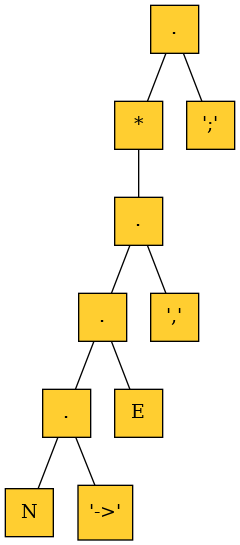
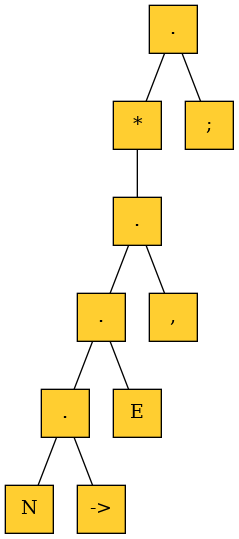
séance 3

Changed region(s): [[0.0, 0.5046, 0.7029, 1.0], [0.4686, 0.1484, 0.8494, 0.6531], [0.6151, 0.0, 0.9958, 0.2968]]

diff --git a/constantes.py b/constantes.py
@@ -1,8 +1,8 @@
 from tree_gen import *
 
-A1 = gen_conc(gen_star(gen_conc(gen_conc(gen_conc(gen_atom('N',0,AtomType.NonTerminal),gen_atom("'->'",0,AtomType.Terminal)),gen_atom('E',0,AtomType.NonTerminal)),gen_atom("','",0,AtomType.Terminal))),gen_atom("';'",0,AtomType.Terminal))
-A2 = gen_atom("'IDnter'",0,AtomType.Terminal)
-A3 = gen_conc(gen_atom('T',0,AtomType.NonTerminal),gen_star(gen_conc(gen_atom("'.'",0,AtomType.Terminal),gen_atom('T',0,AtomType.NonTerminal))))
-A4 = gen_conc(gen_atom('T',0,AtomType.NonTerminal),gen_star(gen_conc(gen_atom("'+'",0,AtomType.Terminal),gen_atom('T',0,AtomType.NonTerminal))))
-A5 = gen_union(gen_union(gen_union(gen_union(gen_atom("'IDnter'",0,AtomType.Terminal),gen_atom("'Elter'",0,AtomType.Terminal)),gen_conc(gen_atom("'('",0,AtomType.Terminal),gen_conc(gen_atom('E',0,AtomType.NonTerminal),gen_atom("')'",0,AtomType.Terminal)))),gen_conc(gen_atom("'['",0,AtomType.Terminal),gen_conc(gen_atom('E',0,AtomType.NonTerminal),gen_atom("']'",0,AtomType.Terminal)))),gen_conc(gen_atom("'(/'",0,AtomType.Terminal),gen_conc(gen_atom('E',0,AtomType.NonTerminal),gen_atom("'/)'",0,AtomType.Terminal))))
+A1 = gen_conc(gen_star(gen_conc(gen_conc(gen_conc(gen_atom('N',0,AtomType.NonTerminal),gen_atom('->',0,AtomType.Terminal)),gen_atom('E',0,AtomType.NonTerminal)),gen_atom(',',0,AtomType.Terminal))),gen_atom(';',0,AtomType.Terminal))
+A2 = gen_atom('IDnter',0,AtomType.Terminal)
+A3 = gen_conc(gen_atom('T',0,AtomType.NonTerminal),gen_star(gen_conc(gen_atom('.',0,AtomType.Terminal),gen_atom('T',0,AtomType.NonTerminal))))
+A4 = gen_conc(gen_atom('F',0,AtomType.NonTerminal),gen_star(gen_conc(gen_atom('+',0,AtomType.Terminal),gen_atom('F',0,AtomType.NonTerminal))))
+A5 = gen_union(gen_union(gen_union(gen_union(gen_atom('IDnter',0,AtomType.Terminal),gen_atom('Elter',0,AtomType.Terminal)),gen_conc(gen_atom('(',0,AtomType.Terminal),gen_conc(gen_atom('E',0,AtomType.NonTerminal),gen_atom(')',0,AtomType.Terminal)))),gen_conc(gen_atom('[',0,AtomType.Terminal),gen_conc(gen_atom('E',0,AtomType.NonTerminal),gen_atom(']',0,AtomType.Terminal)))),gen_conc(gen_atom('(/',0,AtomType.Terminal),gen_conc(gen_atom('E',0,AtomType.NonTerminal),gen_atom('/)',0,AtomType.Terminal))))
 A = [A1,A2,A3,A4,A5]

diff --git a/analyse_modules.py b/analyse_modules.py
@@ -1,0 +1,68 @@
+from constantes import A
+from tree_gen import *
+
+
+def isArrow(grammar : str, local_index : int) -> bool:
+    if grammar[local_index:local_index+2] == '->':
+        return True
+    else:
+        return False
+    
+
+index = 0
+    
+def analyse(node : Node, grammar)-> bool :
+    global index
+    if node.classe == Classe.Conc :
+        if analyse(node.left, grammar) :
+            return analyse(node.right, grammar)
+        else:
+            return False
+    elif node.classe == Classe.Union :
+        if analyse(node.left, grammar) :
+            return True
+        else:
+            return analyse(node.right, grammar)
+    elif node.classe == Classe.Star :
+        while analyse(node.left, grammar) :
+            pass
+    elif node.classe == Classe.Un :
+        if analyse(node.left, grammar) :
+            pass
+    elif node.classe == Classe.Atom :
+        if node.AType == AtomType.Terminal :
+            if node.value == '->'  :
+                index += 2
+                return isArrow(grammar, index-2)
+            elif node.value == 'IDnter' :
+                index += 1
+                return grammar[index-1] in 'SNTEF'
+            elif node.value == 'Elter' :
+                if grammar[index] == "'" :
+                    while grammar[index] != "'" :
+                        index += 1
+                    return True
+            elif node.value == grammar[index] :
+                index += 1
+                return True
+            else :
+                return False
+        else : #NonTerminal
+            if node.value == 'S':
+                next_node = A[0]
+            elif node.value == 'N':
+                next_node = A[1]
+            elif node.value == 'T':
+                next_node = A[2]
+            elif node.value == 'E':
+                next_node = A[3]
+            elif node.value == 'F':
+                next_node = A[4]
+            else:
+                return False
+            return analyse(next_node, grammar)
+    
+                    
+                
+            
+        

diff --git a/graphic_modules.py b/graphic_modules.py
@@ -1,4 +1,4 @@
-from tree_gen import Node, AtomType
+from tree_gen import Node, AtomType, Classe
 # Utilisé pour le dessin de l'arbre
 from dsplot import tree
 
@@ -17,19 +17,25 @@ def tree_print_aux(tree : Node):
     oblique pour les noeuds de type un 
     
     '''
-    if tree.classe=='star':
+    if tree.classe==Classe.Star:
         print('[', end = ' ')
-    elif tree.classe=='un':
+    elif tree.classe==Classe.Un:
         print('(\\', end = ' ')
     if tree.left != None:
         tree_print_aux(tree.left)
     
-    if tree.classe=='star':
+    if tree.classe==Classe.Star:
         print(']', end = ' ')
-    elif tree.classe=='un':
+    elif tree.classe==Classe.Un:
         print('\\)', end = ' ')
     else :
-        print(tree.value, end = ' ')
+        if tree.classe==Classe.Atom:
+            if tree.AType == AtomType.Terminal:
+                print("'",tree.value,"'", sep='', end = ' ')
+            else:
+                print(tree.value, end = ' ')
+        else:
+            print(tree.value, end = ' ')
     
     if tree.right != None:
         tree_print_aux(tree.right)
@@ -40,7 +46,13 @@ def draw_tree(tree):
     print() # affichage d'une fin de ligne
     
 def draw_tree_aux(tree, level):
-    print('---'*level,tree.value, sep='')
+    if tree.classe==Classe.Atom:
+        if tree.AType == AtomType.Terminal:
+            print('---'*level,"'",tree.value,"'", sep='')
+        else:
+            print('---'*level,tree.value, sep='')
+    else:
+        print('---'*level,tree.value, sep='')
     if tree.left != None:
         draw_tree_aux(tree.left, level+1)
     if tree.right != None:

diff --git a/tree_gen.py b/tree_gen.py
@@ -3,8 +3,15 @@ from enum import Enum
 class AtomType(Enum):
     Terminal = 1
     NonTerminal = 2
+    
 
-AtomType = Enum('AtomType', ['Terminal', 'NonTerminal'])
+class Classe(Enum):
+    Conc = 1
+    Union = 2
+    Star = 3
+    Un = 4
+    Atom = 5
+    
 
 class Node:
     '''
@@ -23,21 +30,21 @@ def gen_conc(left : Node, right : Node) -> Node:
     '''
     Fonction qui permet de générer un noeud de type concaténation
     '''
-    new_node = Node(left, right, 'conc',  value= '.')
+    new_node = Node(left, right, Classe.Conc,  value= '.')
     return new_node
 
 def gen_union(left : Node, right : Node) -> Node:
-    new_node = Node(left, right, 'union',  value= '+')
+    new_node = Node(left, right, Classe.Union,  value= '+')
     return new_node
 
 def gen_star(left : Node) -> Node:
-    new_node = Node(left, classe = 'star',  value= '*')
+    new_node = Node(left, classe = Classe.Star,  value= '*')
     return new_node
 
 def gen_un(left : Node) -> Node:
-    new_node = Node(left, classe = 'un', value= '(\\\\)')
+    new_node = Node(left, classe = Classe.Un, value= '(\\\\)')
     return new_node
 
 def gen_atom(value : str, action : int, AtomType : AtomType) -> Node:
-    new_node = Node(classe = 'atom', action = action, value = value, AType = AtomType)
+    new_node = Node(classe = Classe.Atom, action = action, value = value, AType = AtomType)
     return new_node 

diff --git a/main.py b/main.py
@@ -1,13 +1,19 @@
 from tree_gen import Node, AtomType, gen_conc, gen_star, gen_atom, gen_union
 from graphic_modules import tree_print, draw_tree, create_tree_dsplot
 from constantes import A1, A2, A3, A4, A5, A
+from analyse_modules import analyse
 
 
 if __name__ == '__main__':
-    tree_print(A1)
-    draw_tree(A1)
-    create_tree_dsplot(A1, 'A1.png')
-    create_tree_dsplot(A2, 'A2.png')
-    create_tree_dsplot(A3, 'A3.png')
-    create_tree_dsplot(A4, 'A4.png')
-    create_tree_dsplot(A5, 'A5.png')
+    grammar = "S->['a'].'b',;"
+    if analyse(A[0], grammar) :
+        print("La grammaire est correcte")
+    else:
+        print("La grammaire n'est pas correcte")
+#    tree_print(A5)
+#    draw_tree(A5)
+#    create_tree_dsplot(A1, 'A1.png')
+#    create_tree_dsplot(A2, 'A2.png')
+#    create_tree_dsplot(A3, 'A3.png')
+#    create_tree_dsplot(A4, 'A4.png')
+#    create_tree_dsplot(A5, 'A5.png')
